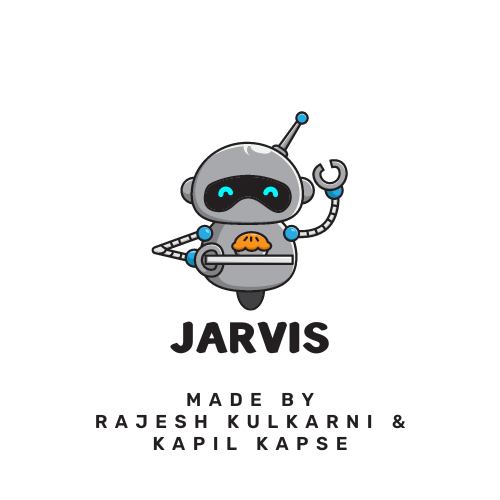
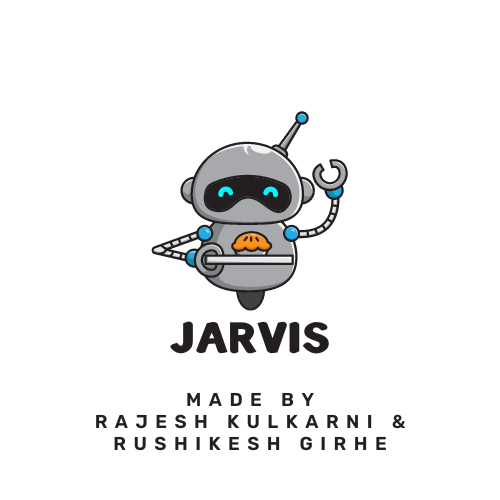
Frontend Changes

Changed region(s): [[0.21, 0.87, 0.78, 0.9]]

diff --git a/templates/base.html b/templates/base.html
@@ -47,9 +47,9 @@
             </div>
 
             <div class="home__social">
-                <a href="https://www.linkedin.com/in/kapil-kapse-410635215/" class="home__social-icon" target="_blank"><i class='bx bxl-linkedin'></i></a>
-                <a href="https://www.instagram.com/kapil.kapse.1612/" class="home__social-icon" target="_blank"><i class='bx bxl-instagram'></i></a>
-                <a href="https://github.com/kapil-kapse" class="home__social-icon" target="_blank"><i class='bx bxl-github'></i></a>
+                <a href="https://www.linkedin.com/in/rushikesh-girhe-b9b2b61b6" class="home__social-icon" target="_blank"><i class='bx bxl-linkedin'></i></a>
+                <a href="https://www.instagram.com/rushi_3428/" class="home__social-icon" target="_blank"><i class='bx bxl-instagram'></i></a>
+                <a href="https://github.com/rgirhe" class="home__social-icon" target="_blank"><i class='bx bxl-github'></i></a>
             </div>
 
             <div class="home__img">
@@ -167,7 +167,7 @@
                     <img src="static\images\team_jarvis.png" alt="">
                 </a>
                 <a class="work__img">
-                    <img src="static\images\team_kapil.png" alt="">
+                    <img src="static\images\team_rushikesh.png" alt="">
                 </a>
             </div>
         </section>
